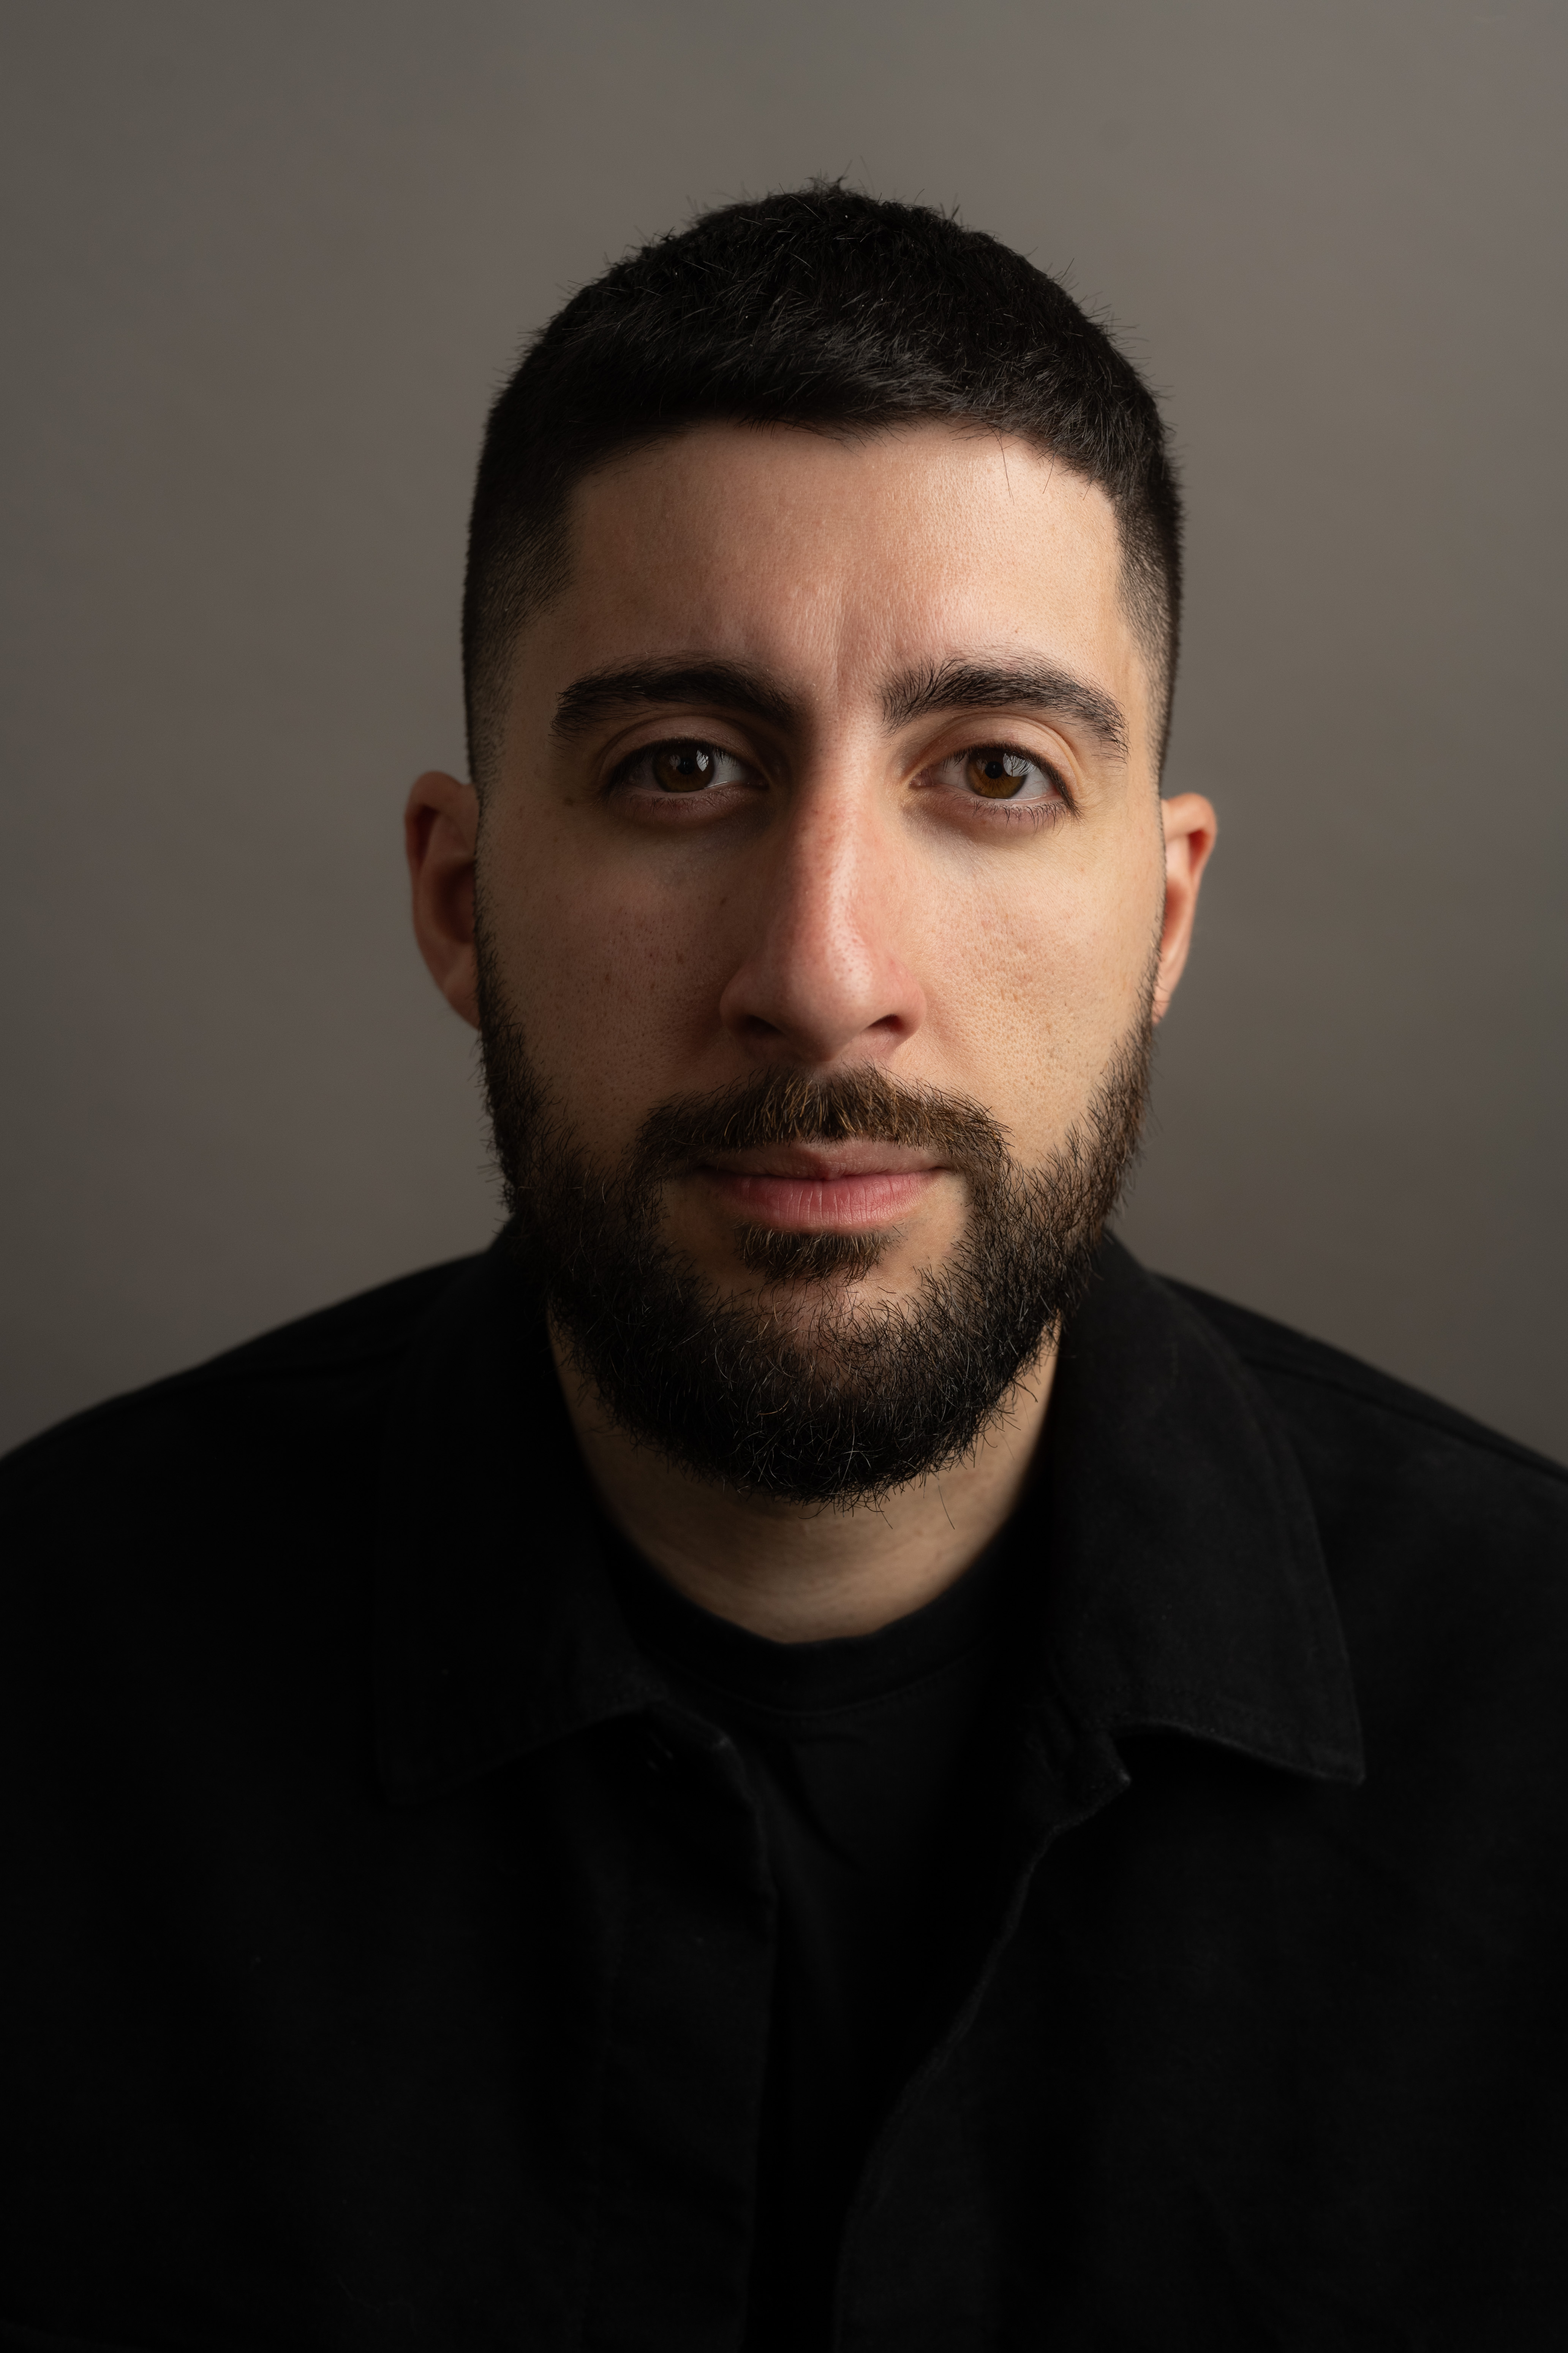
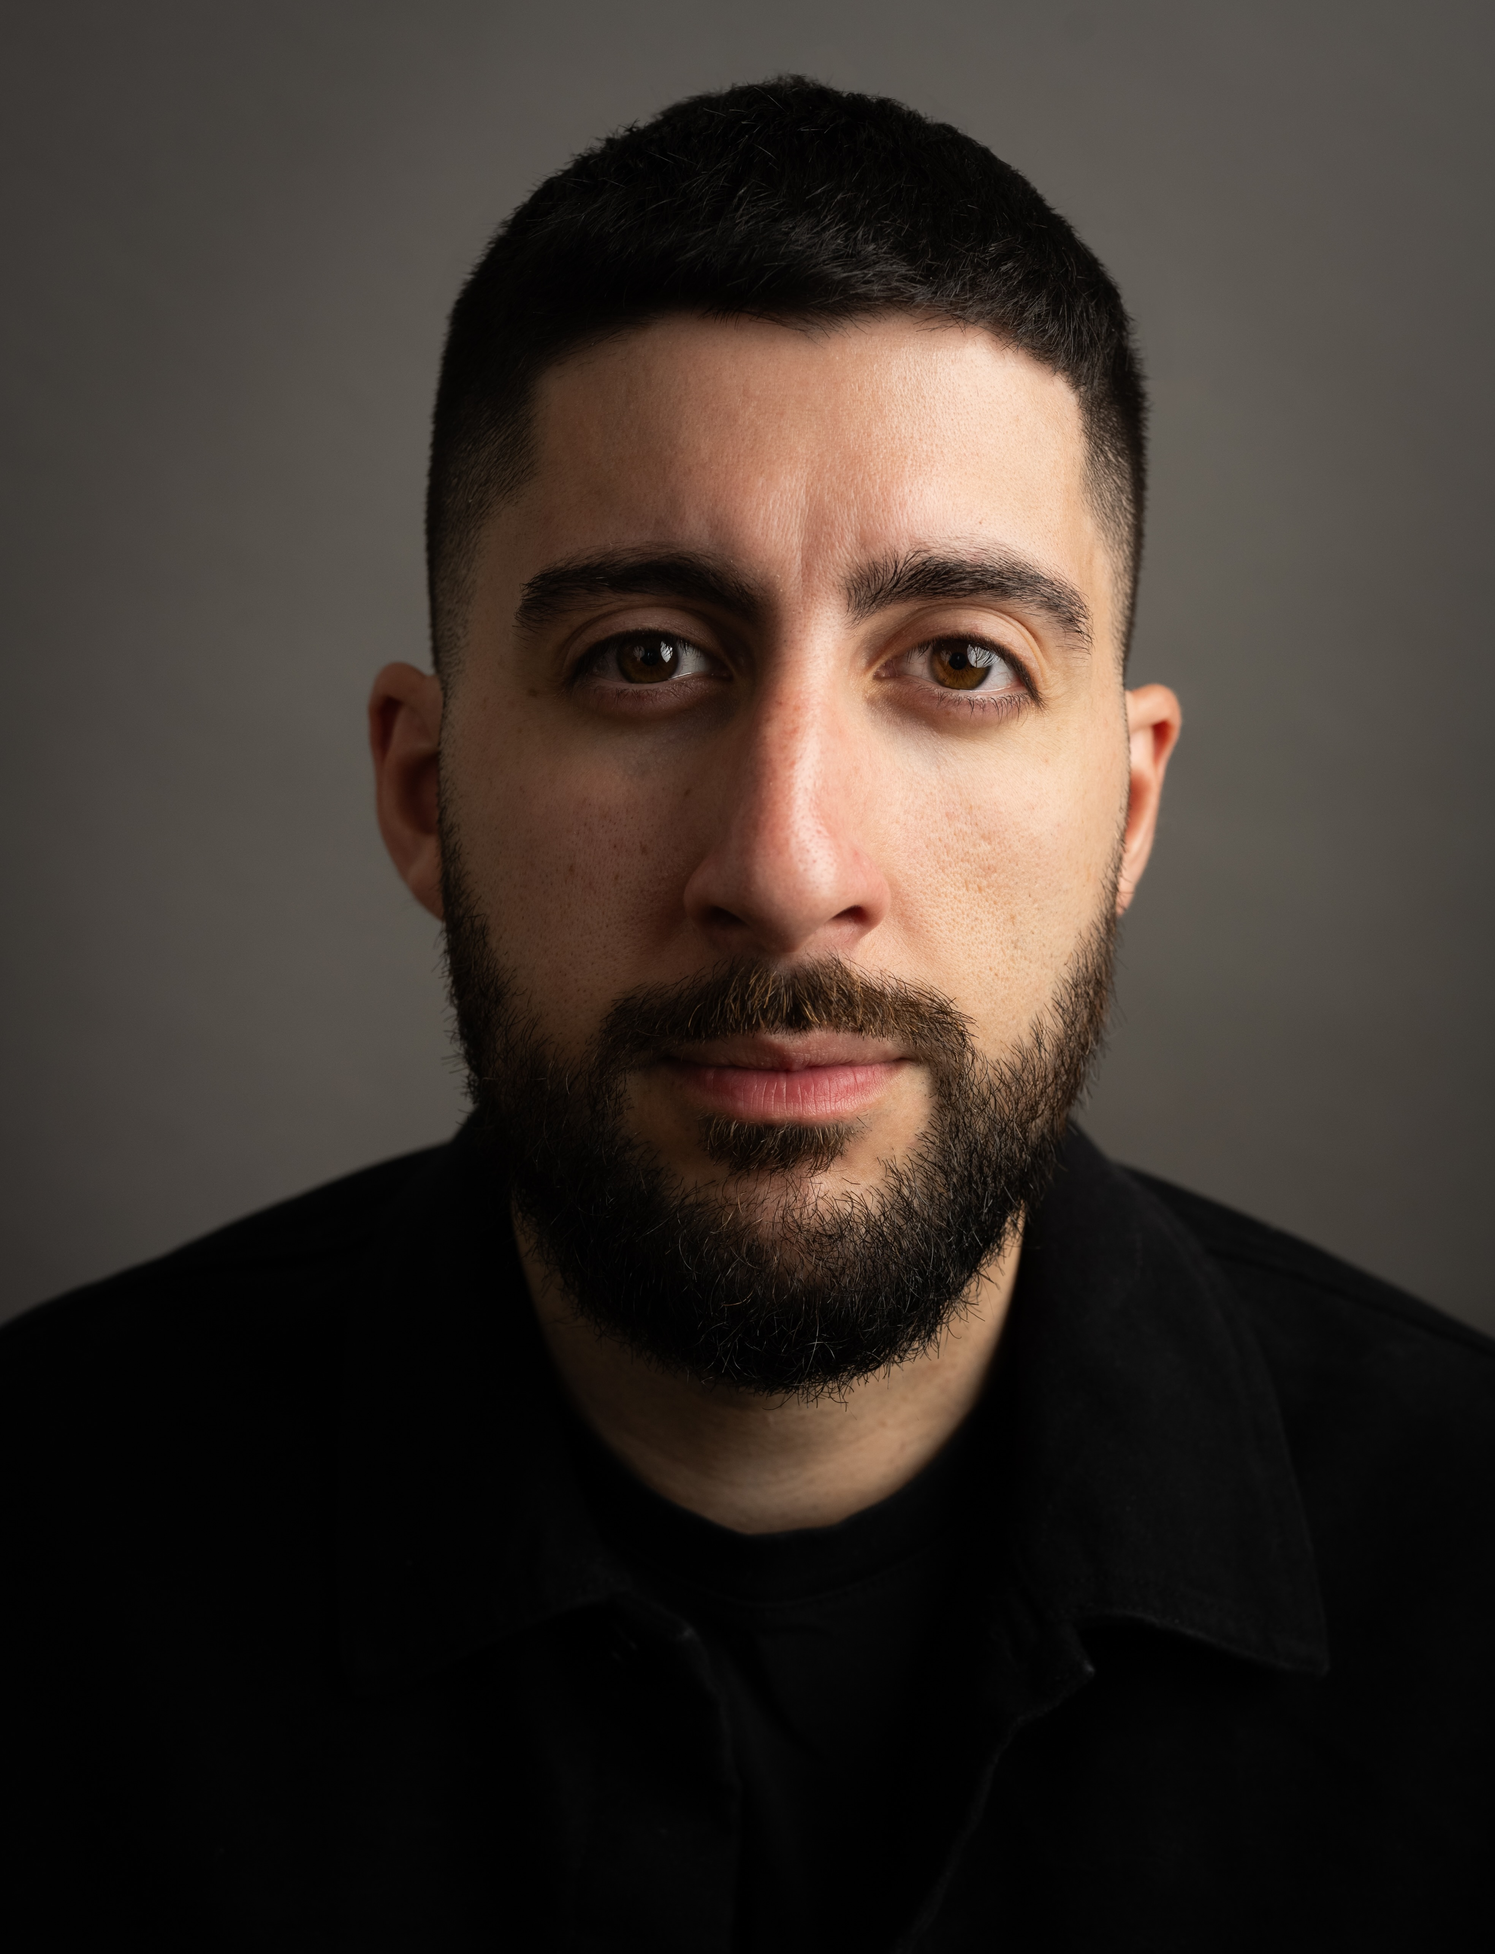
New headshot, changes to responsiveness

Changed region(s): [[0.0, 0.0311, 1.0, 0.8089], [0.6512, 0.0, 1.0, 0.3422], [0.0, 0.0, 0.2481, 0.28]]

diff --git a/src/components/Hero.tsx b/src/components/Hero.tsx
@@ -3,31 +3,35 @@ import React from "react";
 const Hero: React.FC = () => {
   return (
     <section
-      className="flex flex-col items-center w-full gap-10 my-20"
+      className="flex flex-col lg:flex-row items-center w-full my-20 lg:mt-40 gap-10 lg:gap-0"
       id="hero"
     >
       {/* Name and subtitle */}
-      <div className="flex-1 w-full text-center mt-3">
-        <h1 className="text-[100px] sm:text-[200px] md:text-[220px] ml-3 sm:ml-5 font-extrabold clash-display text-[#FFA500] tracking-wider">
+      <div className="flex-1 w-full text-center items-center lg:ml-14 xl:ml-20 xxl:ml-24 xxxl:ml-28">
+        <h1 className="text-[100px] sm:text-[150px] md:text-[175px] lg:text-[150px] xl:text-[175px] xxl:text-[225px] xxxl:text-[250px] ml-3 sm:ml-5 font-extrabold clash-display text-[#FFA500] tracking-wider">
           NIMA
         </h1>
-        <h1 className="text-[100px] sm:text-[200px] md:text-[220px] mt-[-50px] sm:mt-[-100px] md:mt-[-120px] font-extrabold clash-display text-[#FFA500] tracking-tighter">
+        <h1 className="text-[100px] sm:text-[150px] md:text-[175px] lg:text-[150px] xl:text-[175px] xxl:text-[225px] xxxl:text-[250px] mt-[-65px] sm:mt-[-100px] xxl:mt-[-140px] font-extrabold clash-display text-[#FFA500] tracking-tighter">
           SAFAI
         </h1>
-        <div className="text-xl sm:text-3xl md:text-4xl font-medium text-white tracking-widest">
+        <div className="text-xl sm:text-2xl md:text-3xl font-medium text-white tracking-widest">
           WRITER | DIRECTOR | EDITOR
         </div>
       </div>
+
       {/* Profile image */}
-      <div className="flex-1 flex-col justify-end">
-        <div className="w-[300px] sm:w-[550px] md:w-[600px] h-[420px] sm:h-[750px] md:h-[1000px] bg-gray-300 rounded-md flex items-center justify-center">
+      <div className="flex-1 flex flex-col items-center xxxl:ml-[-200px]">
+        <div className="w-full max-w-xs sm:max-w-sm md:max-w-md lg:max-w-sm xl:max-w-md xxl:max-w-lg xxxl:max-w-xl aspect-[3/4] flex items-center justify-center">
           <img
             src="/images/NimaSafai_Headshot.JPG"
             alt="Nima Safai headshot"
             className="w-full h-full object-cover"
+            style={{ maxWidth: "100%", height: "auto" }}
           />
         </div>
-        <p className="text-[8px] text-white/40 mt-2">Photo: Ines Kjelbye</p>
+        <p className="w-full max-w-xs sm:max-w-sm md:max-w-md lg:max-w-sm text-[8px] text-white/40 mt-2 text-right">
+          Photo: Ines Kjelbye
+        </p>
       </div>
     </section>
   );

diff --git a/src/components/Work.tsx b/src/components/Work.tsx
@@ -3,7 +3,7 @@ import React from "react";
 const Work: React.FC = () => {
   return (
     <section
-      className="flex flex-col items-center justify-center mx-10 my-20"
+      className="flex flex-col max-w-7xl mx-auto px-8 sm:px-10 md:px-12 items-center justify-center my-20"
       id="work"
     >
       <div className="w-full">
@@ -18,21 +18,21 @@ const Work: React.FC = () => {
         </div>
         {/* Info */}
         <div className="flex-1 flex flex-col items-center justify-center text-center mt-8">
-          <h3 className="text-4xl sm:text-5xl md:text-6xl font-semibold text-[#FFA500] mb-2">
+          <h3 className="text-3xl sm:text-4xl md:text-4xl font-semibold text-[#FFA500] mb-2">
             GHORME SABZI
           </h3>
-          <h2 className="text-lg sm:text-2xl font-regular my-2">
+          <h2 className="text-base sm:text-lg md:text-xl font-regular my-2">
             DRAMA | 2024 | 15 MIN
           </h2>
           <a
             href="/GhormeSabzi_Script.pdf"
             target="_blank"
             rel="noopener noreferrer"
-            className="text-[#5496ED] text-base sm:text-xl underline inline-block"
+            className="text-[#5496ED] text-base sm:text-lg underline inline-block"
           >
             SCRIPT
           </a>
-          <p className="text-white text-[12px] sm:text-lg md:text-lg mt-4">
+          <p className="text-white text-[14px] sm:text-base md:text-lg mt-4">
             As is tradition, brothers Arian and Navid meet up one late night to
             cook a special meal together, but this time their meeting is going
             to revolve around something completely different, as Navid asks his

diff --git a/src/components/Navbar.tsx b/src/components/Navbar.tsx
@@ -13,7 +13,7 @@ const Navbar: React.FC = () => {
 
   return (
     <nav className="fixed top-0 left-0 w-full bg-[#1A1A1A] z-50 border-b border-white/40">
-      <div className="max-w-6xl mx-auto flex items-center justify-between px-4 sm:px-6 py-3">
+      <div className="max-w-8xl mx-auto flex items-center justify-between px-4 sm:px-6 md:px-10 xl:px-18 py-3">
         {/* Logo */}
         <a
           href="/"
@@ -21,7 +21,7 @@ const Navbar: React.FC = () => {
             e.preventDefault();
             window.scrollTo({ top: 0, behavior: "smooth" });
           }}
-          className="text-white text-4xl sm:text-4xl md:text-6xl lg:text-7xl mt-4 mb-[-8px] md:ml-4 libre-barcode-128-regular tracking-wide select-none cursor-pointer focus:outline-none"
+          className="text-white text-4xl sm:text-4xl md:text-6xl mt-2 md:mt-4 mb-[-8px] md:ml-4 libre-barcode-128-regular tracking-wide select-none cursor-pointer focus:outline-none"
           aria-label="Scroll to top"
         >
           NIMASAFAI

diff --git a/src/App.tsx b/src/App.tsx
@@ -9,7 +9,7 @@ function App() {
     <div className="min-h-screen flex flex-col">
       <Navbar />
       <main className="flex-1 flex flex-col items-center justify-center mx-auto">
-        <div className="w-full max-w-4xl mx-auto">
+        <div className="w-full max-w-[2000px]">
           <Hero />
           <div className="border-t border-white/40 w-4/5 mx-auto" />
           <Work />

diff --git a/tailwind.config.js b/tailwind.config.js
@@ -11,6 +11,8 @@ module.exports = {
         md: "768px", // Medium devices (tablets)
         lg: "1024px", // Large devices (desktops)
         xl: "1280px", // Extra large devices
+        xxl: "1536px", // Extra extra large devices
+        xxxl: "1920px", // Extra extra extra large devices
       },
     },
   },
